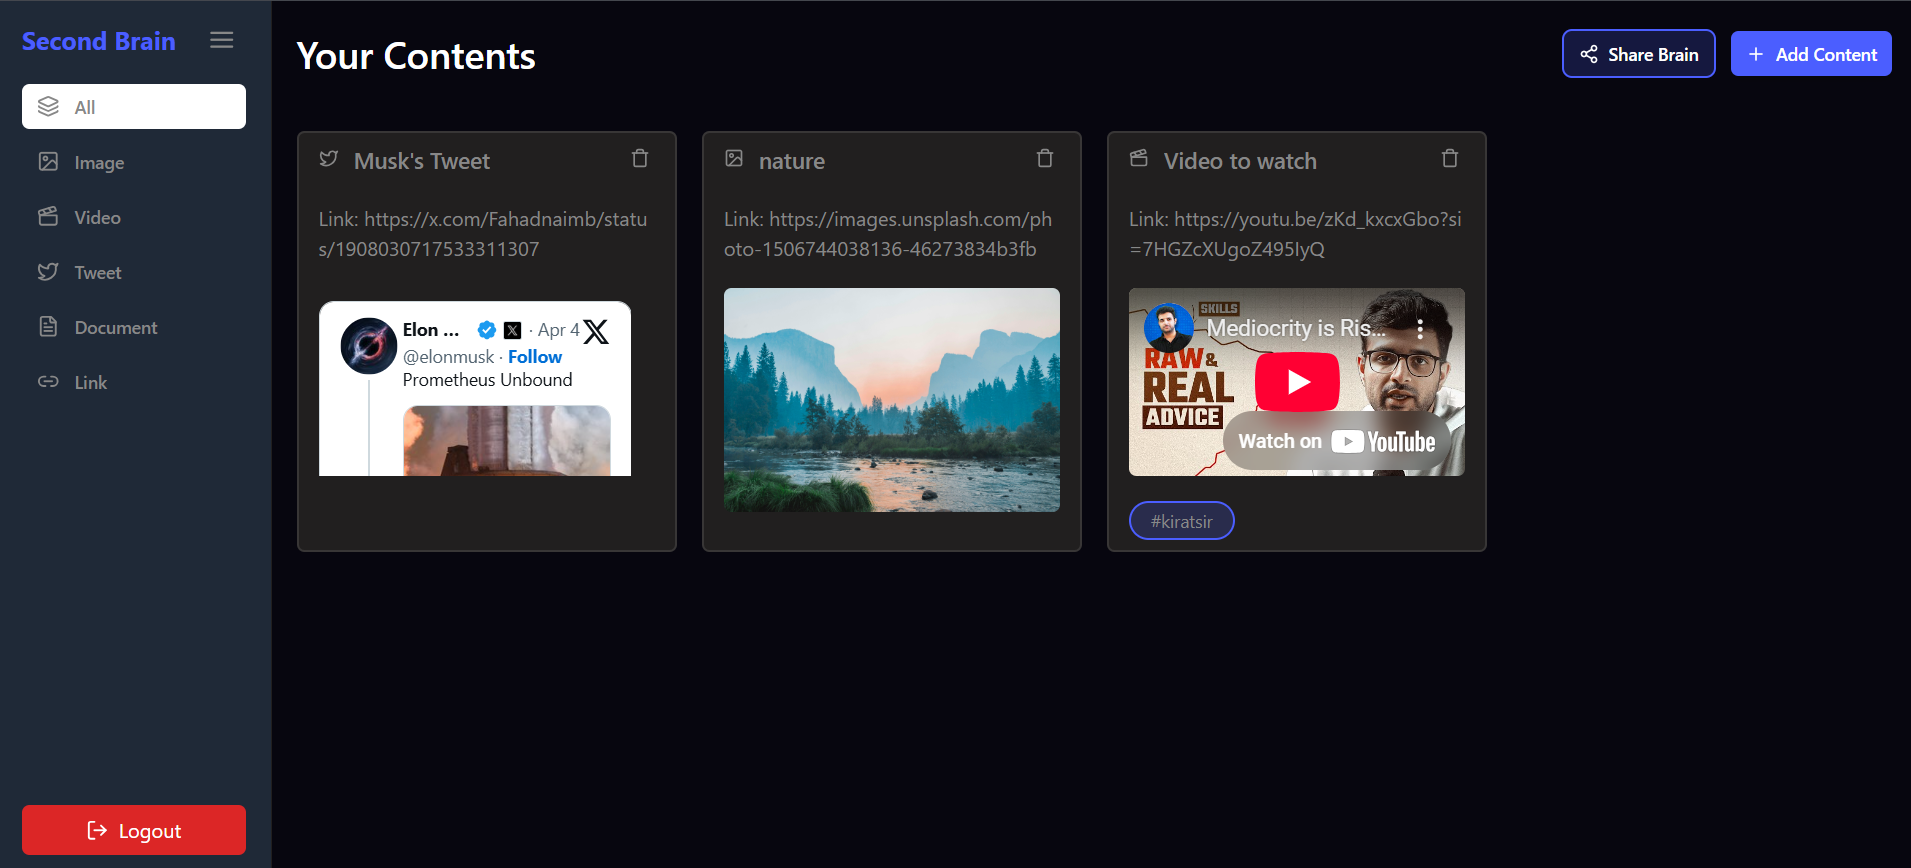
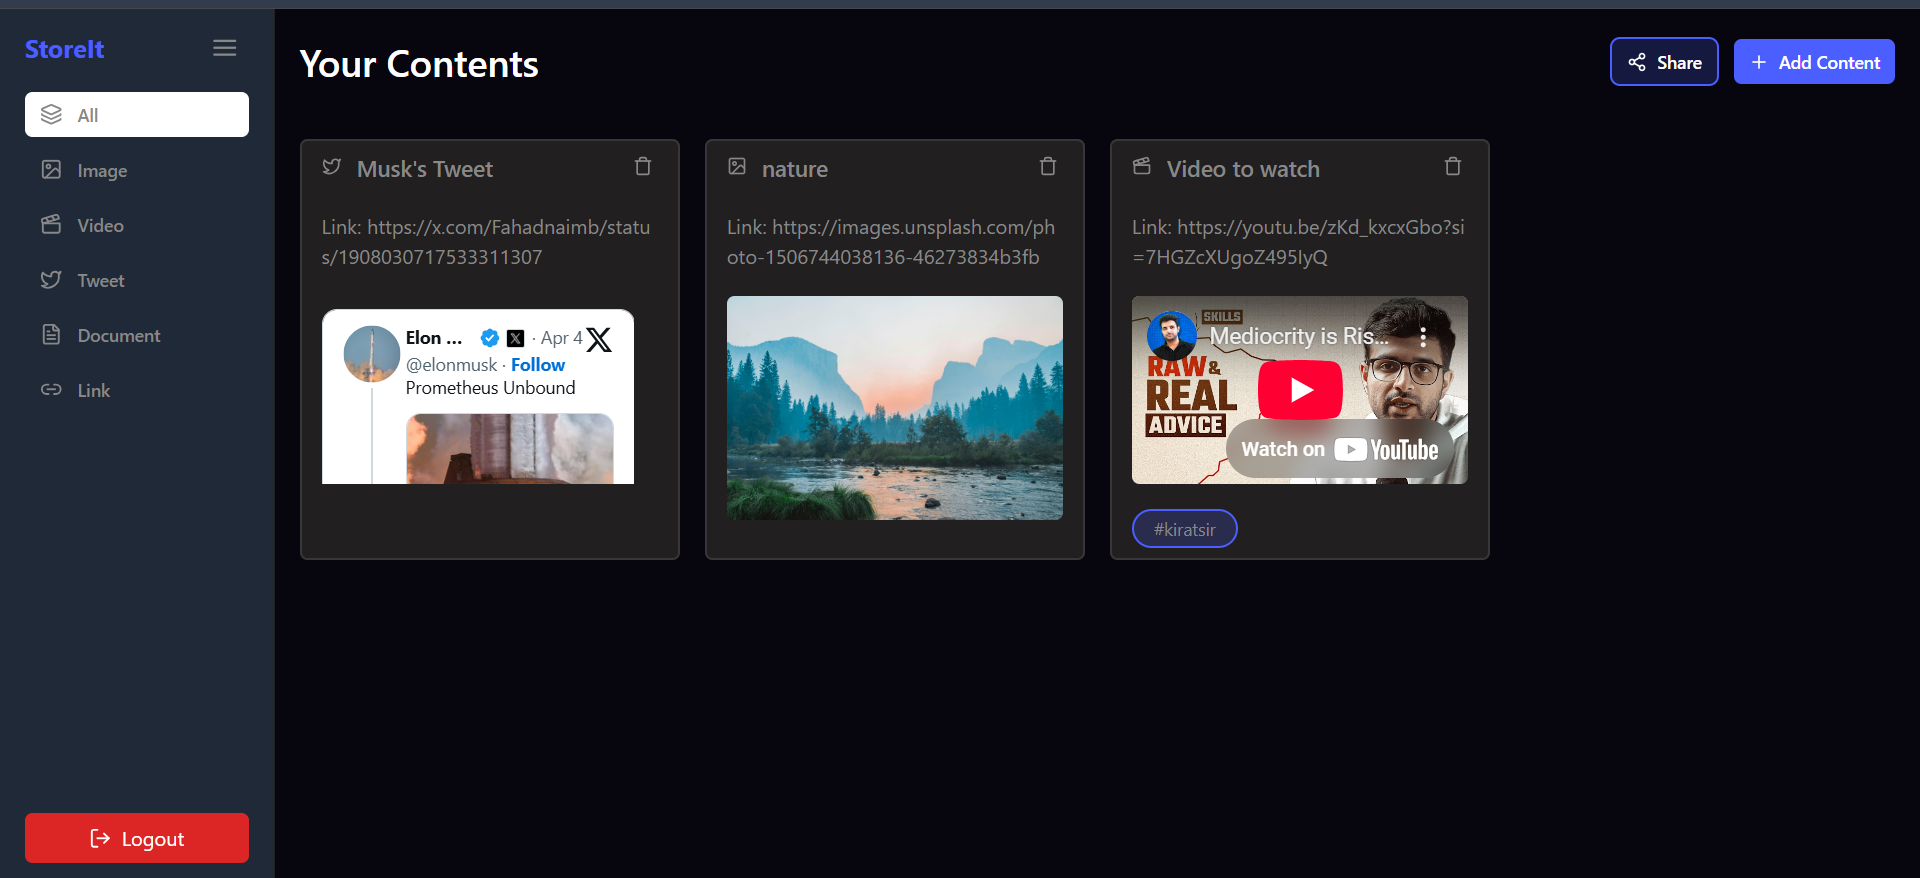
UI update

diff --git a/src/components/sharemodel.tsx b/src/components/sharemodel.tsx
@@ -29,7 +29,7 @@ function ShareModel() {
                 onClick={() => setIsModelOpen(true)}
             >
                 <Share2 size={16} />
-                Share Brain
+                Share
             </button>
             
             <AnimatePresence>
@@ -49,7 +49,7 @@ function ShareModel() {
                             onClick={(e) => e.stopPropagation()}
                         >
                             <div className="flex w-full justify-between items-center mb-4">
-                                <h1 className="text-xl font-semibold text-white">Share Your Second Brain</h1>
+                                <h1 className="text-xl font-semibold text-white">Share Your Collection</h1>
                                 <button 
                                     className="cursor-pointer hover:bg-white/20 p-2 rounded-full transition-all duration-200" 
                                     onClick={() => setIsModelOpen(false)}
@@ -58,7 +58,7 @@ function ShareModel() {
                                 </button>
                             </div>
                             <p className="text-gray-400 text-sm mb-5">
-                                Share your brain with others to collaborate effortlessly.
+                                Share your collection with others to collaborate effortlessly.
                             </p>
                             <button 
                                 className="cursor-pointer bg-primary hover:bg-primary-dark transition-all duration-200 px-3 py-2 rounded-lg flex gap-3 justify-center items-center w-full text-white font-medium"

diff --git a/src/components/NavBar.tsx b/src/components/NavBar.tsx
@@ -19,7 +19,7 @@ function Navbar() {
             to="/"
             className="text-2xl hover:scale-105 transition-all duration-200"
           >
-            Second Brain
+            StoreIt
           </Link>
         </div>
 
@@ -30,7 +30,7 @@ function Navbar() {
               to="/brain"
               className="hidden md:block bg-primary hover:bg-primary-dark px-4 py-2 rounded-full"
             >
-              Go to brain
+              Go to my collection
             </Link>
           ) : (
             <>
@@ -67,7 +67,7 @@ function Navbar() {
       >
         {localStorage.getItem("isLoggedIn") ? (
           <Link to="/brain" className="hover:text-white">
-            Go to brain
+            Go to my collection
           </Link>
         ) : (
           <>

diff --git a/src/components/sidebar.tsx b/src/components/sidebar.tsx
@@ -43,7 +43,7 @@ function SideBar({ isvisible, setisvisible }: { isvisible: boolean; setisvisible
             className="fixed md:sticky top-0 w-64 bg-gray-800 text-gray-200 h-screen px-5 py-3 border-r border-gray-700 flex flex-col"
         >
             <div className="flex justify-between items-center w-full mb-4">
-                <Link to={'/'} className="text-xl font-bold text-primary">Second Brain</Link>
+                <Link to={'/'} className="text-xl font-bold text-primary">StoreIt</Link>
                 <motion.button 
                     whileTap={{ scale: 0.9 }}
                     className="p-2 hover:bg-gray-700 rounded-full transition-all duration-200" 

diff --git a/src/atoms/contentAtom.tsx b/src/atoms/contentAtom.tsx
@@ -12,7 +12,9 @@ export const contentAtom = atomFamily({
         key:"contentselector",
         get: (id :string | null) => async() => {
             if(!id){
-                const response = await axios.get(`${import.meta.env.VITE_API_URL}/api/v1/content`,
+                const response = await axios.get(
+                    // `http://localhost:3000/api/v1/content`,
+                    `${import.meta.env.VITE_API_URL}/api/v1/content`,
                     {
                         withCredentials: true
                     }

diff --git a/src/components/signup.tsx b/src/components/signup.tsx
@@ -10,7 +10,7 @@ function Signup() {
         <div className="flex flex-col justify-center items-center gap-5 w-full md:w-1/3">
           <p className="text-md md:text-xl font-semibold max-w-xs text-center text-gray-300">
           Let’s get your  
-            <span className="text-primary font-bold"> Second Brain </span>
+            <span className="text-primary font-bold"> collection </span>
             up and running.
           </p>
         </div>

diff --git a/src/components/Footer.tsx b/src/components/Footer.tsx
@@ -4,7 +4,7 @@ function Footer() {
   return (
     <footer className="bg-gray-500 text-gray-200 text-sm font-medium">
       <div className="max-w-7xl mx-auto p-5 flex justify-between items-center">
-        <h1 className="">Second Brain</h1>
+        <h1 className="">StoreIt</h1>
         <a
           target="_blank"
           href="https://github.com/manasbhalerao23/Second_Brain_FE"

diff --git a/src/components/signin.tsx b/src/components/signin.tsx
@@ -6,7 +6,7 @@ function Signin () {
         {/* <Navbar /> */}
         <div className="bg-black-100 text-white h-screen py-32 flex flex-col justify-center items-center font-primary">
           <h1 className="text-2xl font-bold my-5 text-center">
-            Login to Brainly
+            Login to StoreIt
           </h1>
           <Authform endpoint="signin" />
         </div>

diff --git a/src/components/Authform.tsx b/src/components/Authform.tsx
@@ -25,6 +25,7 @@ function AuthForm({ endpoint }: AuthFormProps) {
     try {
       //console.log(import.meta.env.VITE_API_URL)
       await axios.post(
+        // `http://localhost:3000/api/v1/${endpoint}`,
         `${import.meta.env.VITE_API_URL}/api/v1/${endpoint}`,
         { username: data.username, password: data.password },
         { withCredentials: true }

diff --git a/index.html b/index.html
@@ -4,7 +4,7 @@
     <meta charset="UTF-8" />
     <link rel="icon" type="image/svg+xml" href="/icon.png" />
     <meta name="viewport" content="width=device-width, initial-scale=1.0" />
-    <title>Second Brain</title>
+    <title>StoreIt</title>
   </head>
   <body>
     <div id="root"></div>
